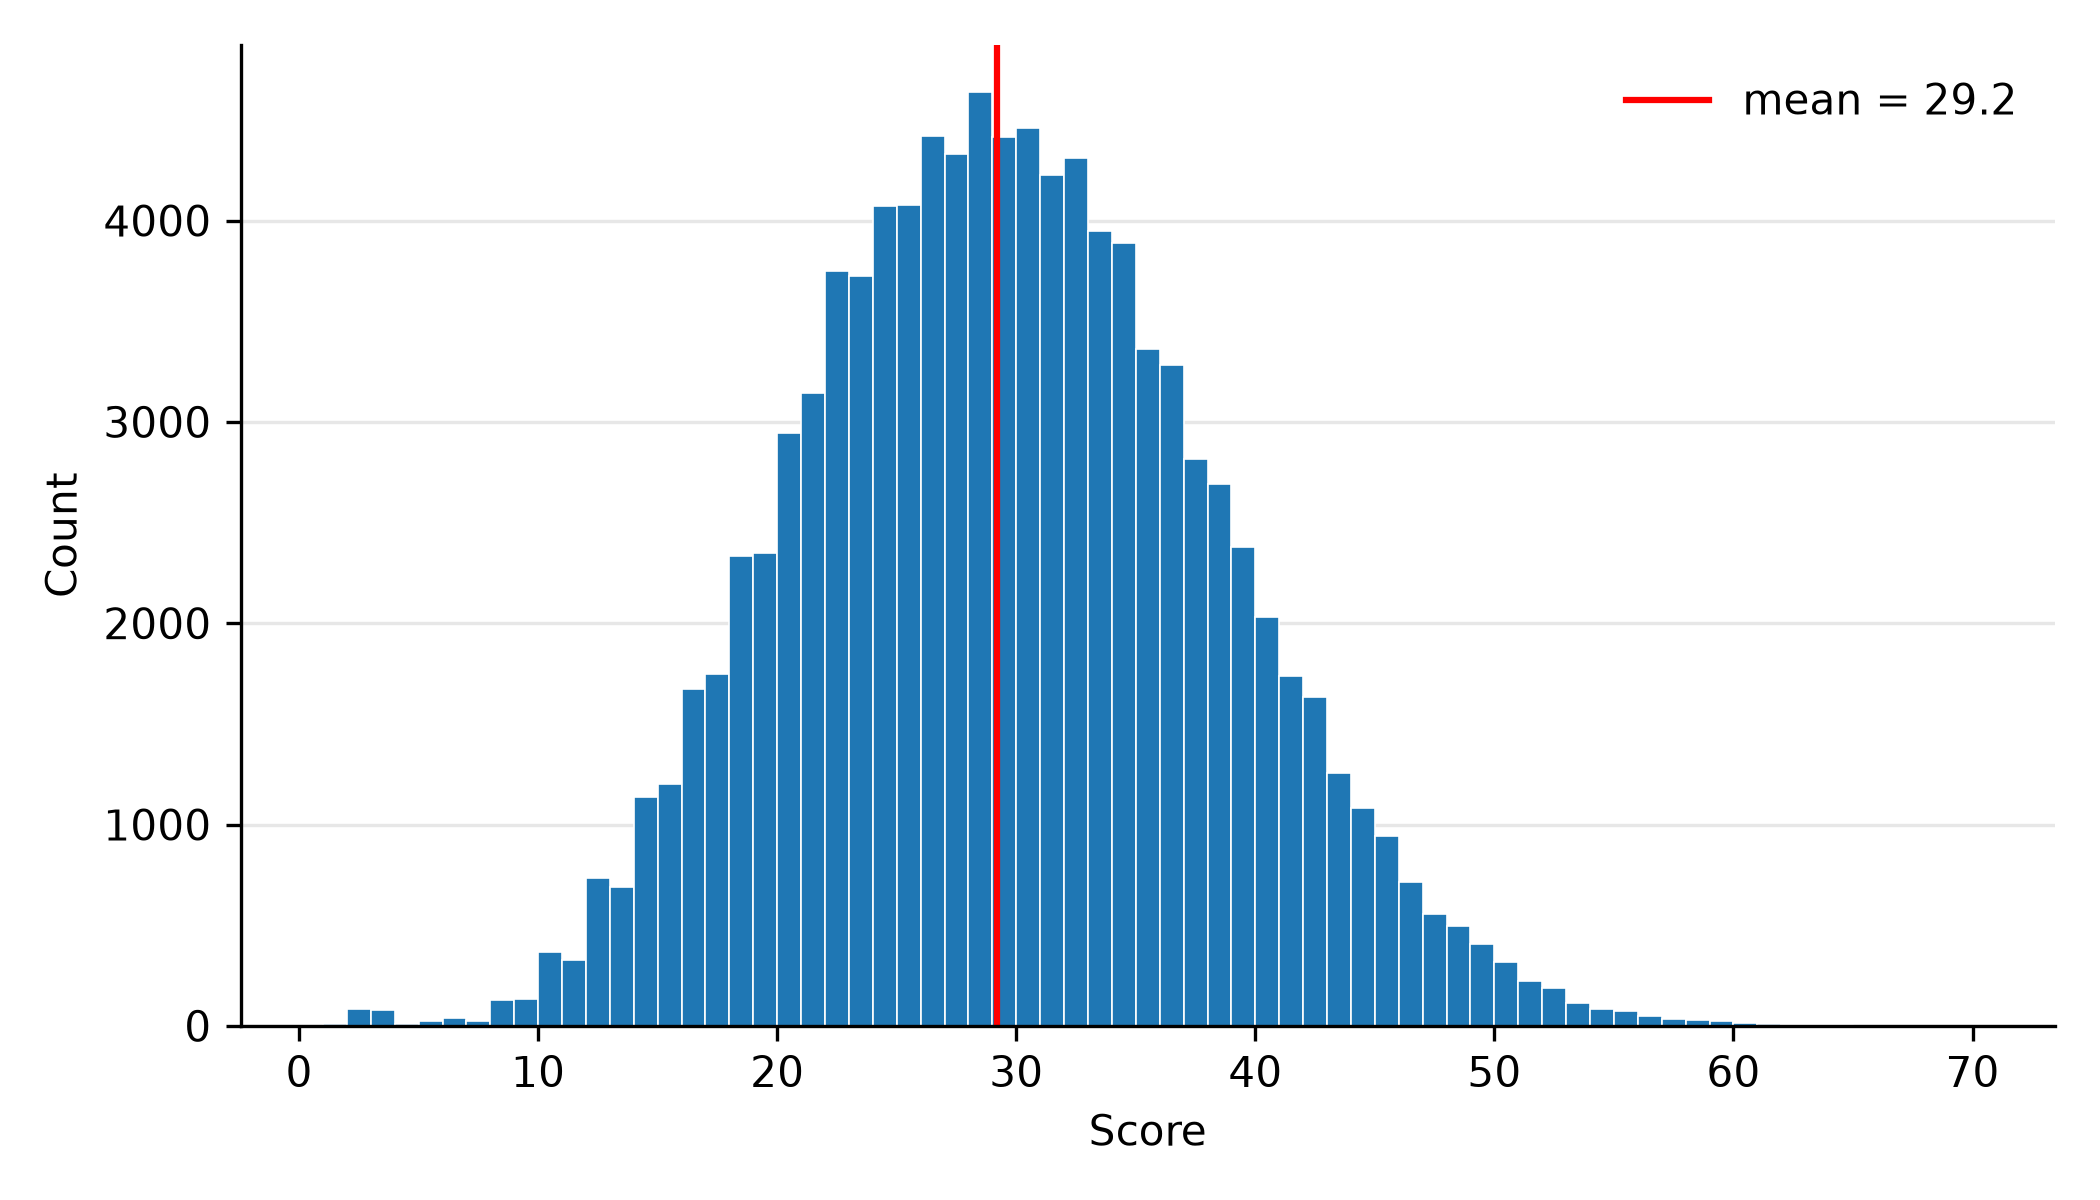
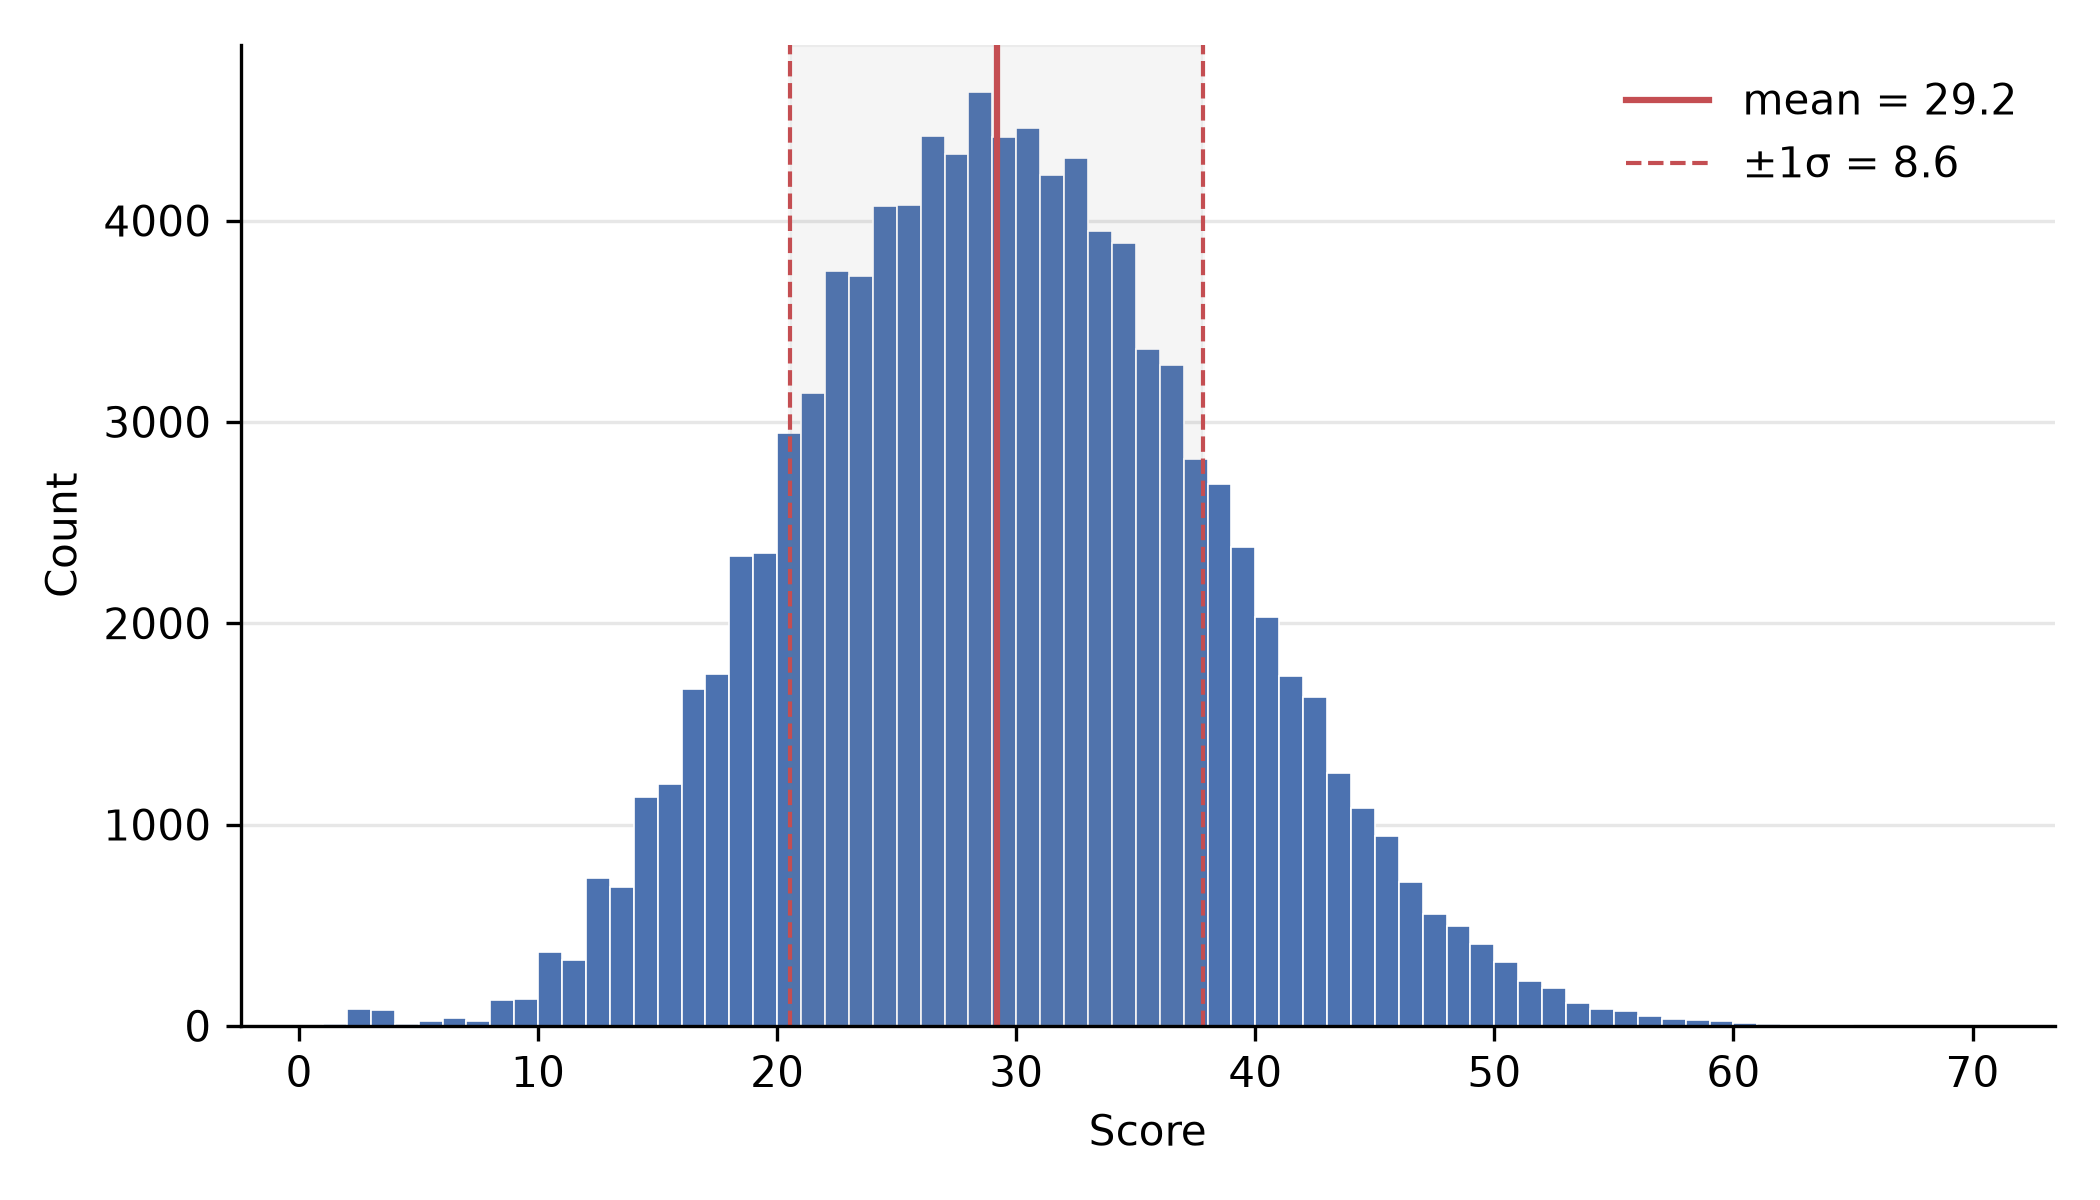
add std in plot

diff --git a/plots/score_distribution_greedy.py b/plots/score_distribution_greedy.py
@@ -14,11 +14,19 @@ FIG_PATH = ROOT / "figures" / "score_distribution_greedy.png"
 if __name__ == "__main__":
     log = load_log(LOG_PATH)
     scores = np.asarray(log["score"])
+    mean = scores.mean()
+    std = scores.std()
 
     fig, ax = plt.subplots(figsize=(7, 4))
+
     bins = np.arange(scores.min(), scores.max() + 2)
-    ax.hist(scores, bins=bins, edgecolor="white", linewidth=0.4)
-    ax.axvline(scores.mean(), color="red", lw=1.5, label=f"mean = {scores.mean():.1f}")
+    ax.hist(scores, bins=bins, edgecolor="white", linewidth=0.4, color="#4C72B0")
+
+    ax.axvspan(mean - std, mean + std, color="grey", alpha=0.08)
+
+    ax.axvline(mean, color="#C44E52", lw=1.5, label=f"mean = {mean:.1f}")
+    ax.axvline(mean + std, color="#C44E52", lw=1, ls="--", label=f"±1σ = {std:.1f}")
+    ax.axvline(mean - std, color="#C44E52", lw=1, ls="--")
 
     ax.set_xlabel("Score")
     ax.set_ylabel("Count")
@@ -26,6 +34,5 @@ if __name__ == "__main__":
     ax.set_axisbelow(True)
     ax.spines[["top", "right"]].set_visible(False)
     ax.legend(frameon=False)
-
     fig.tight_layout()
     fig.savefig(FIG_PATH, dpi=300)